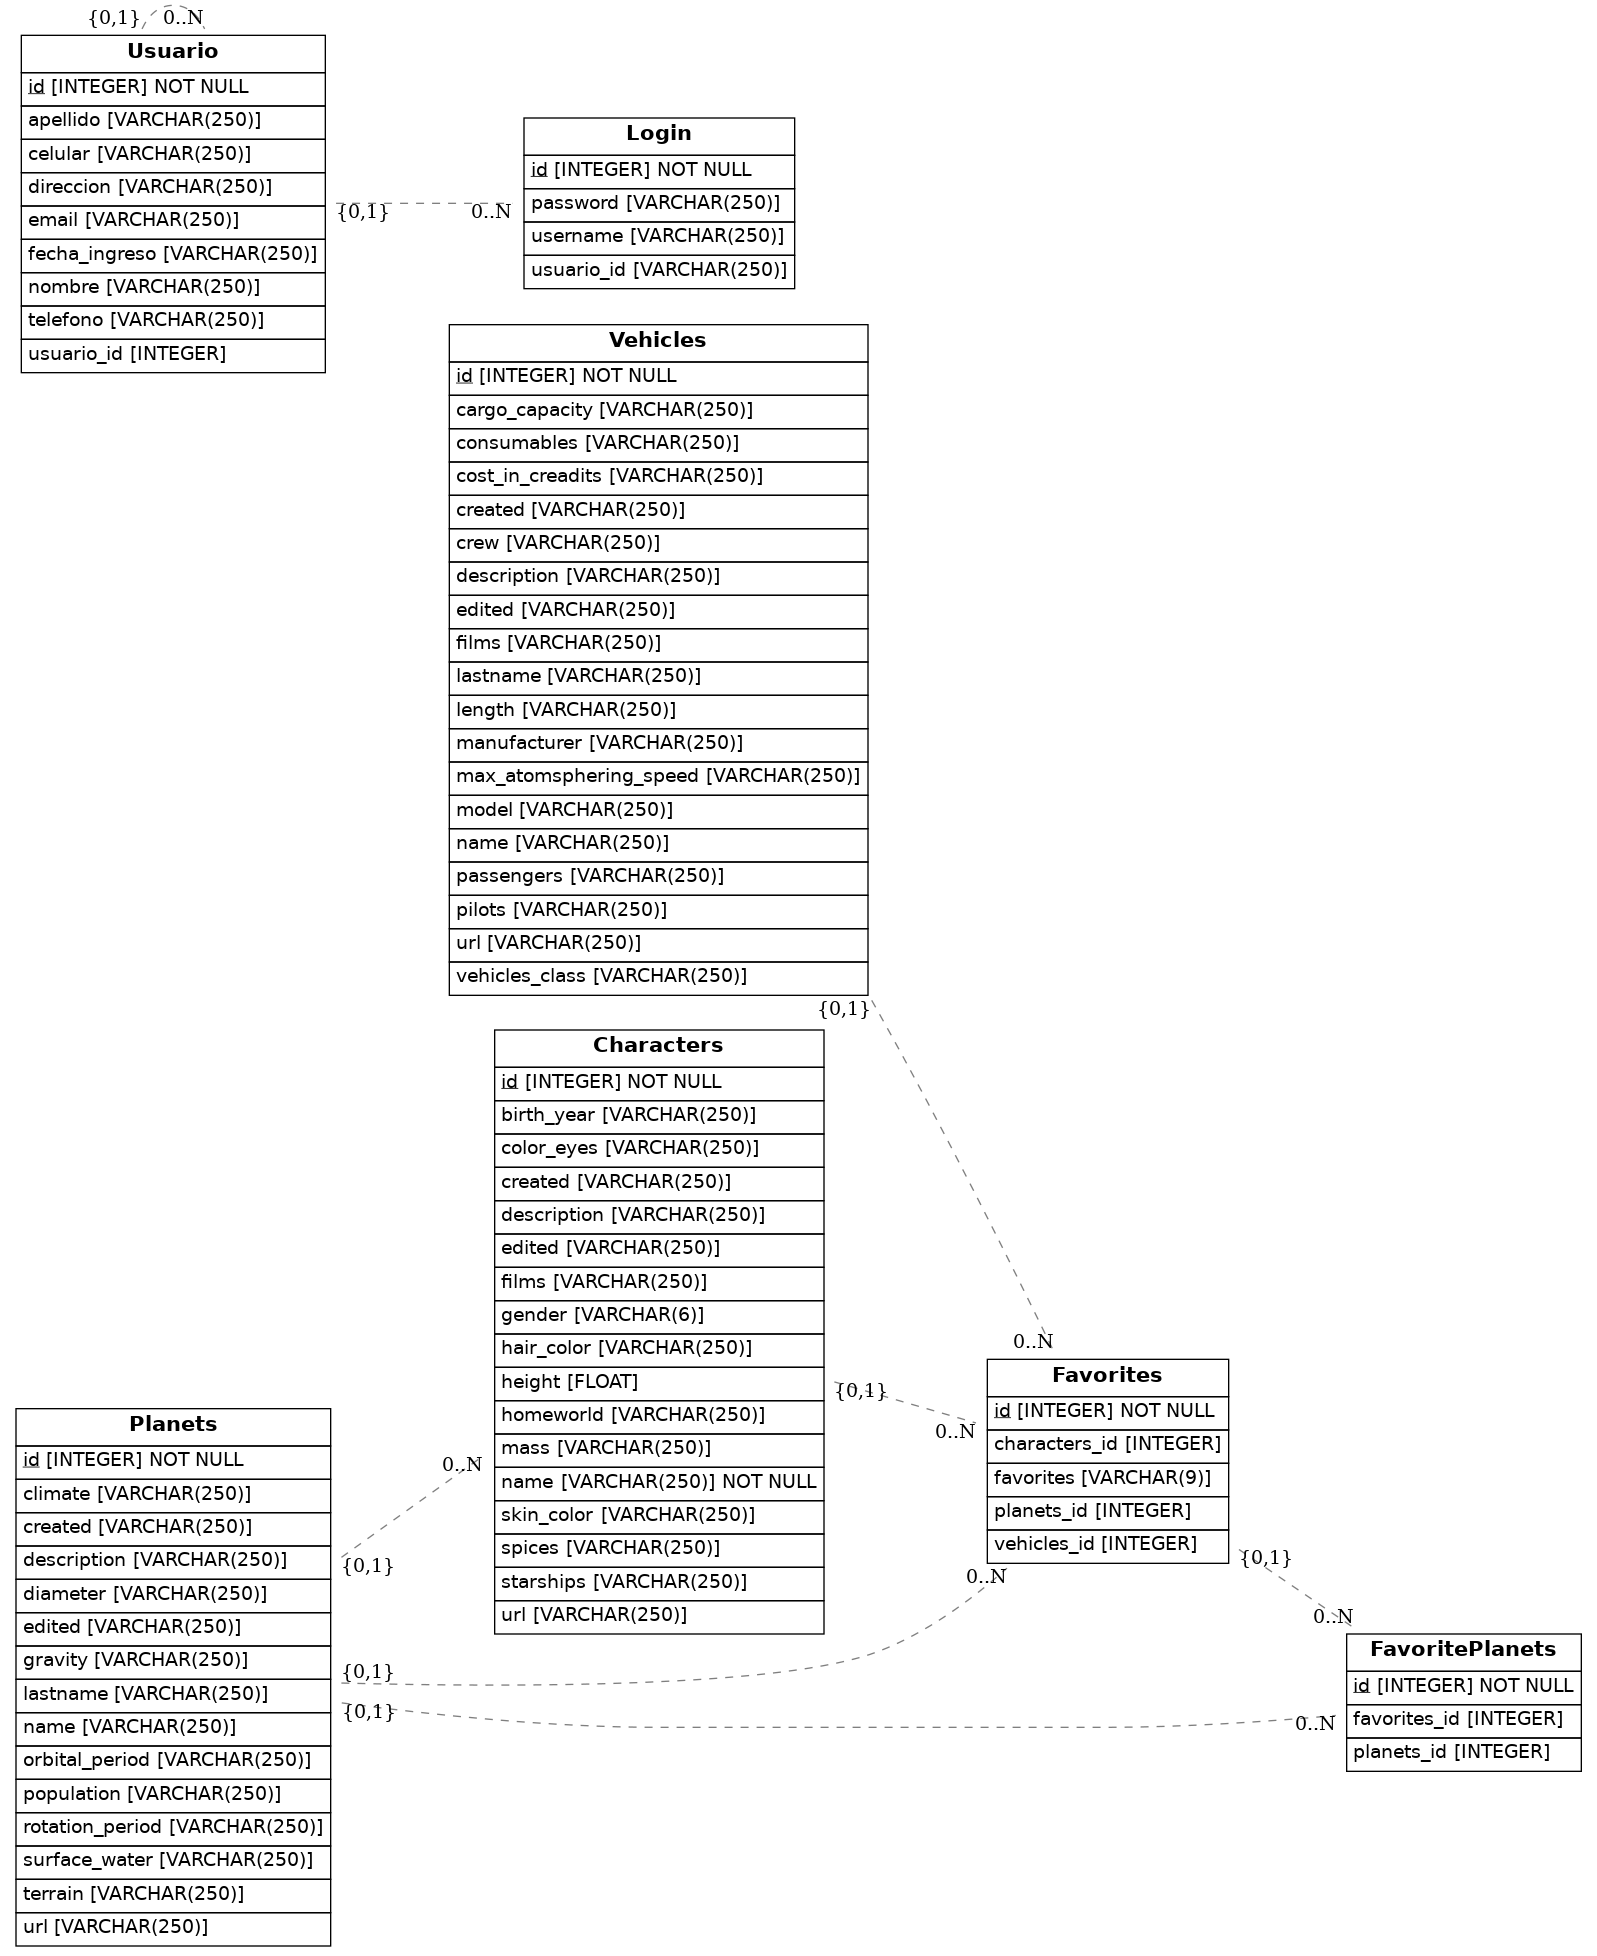
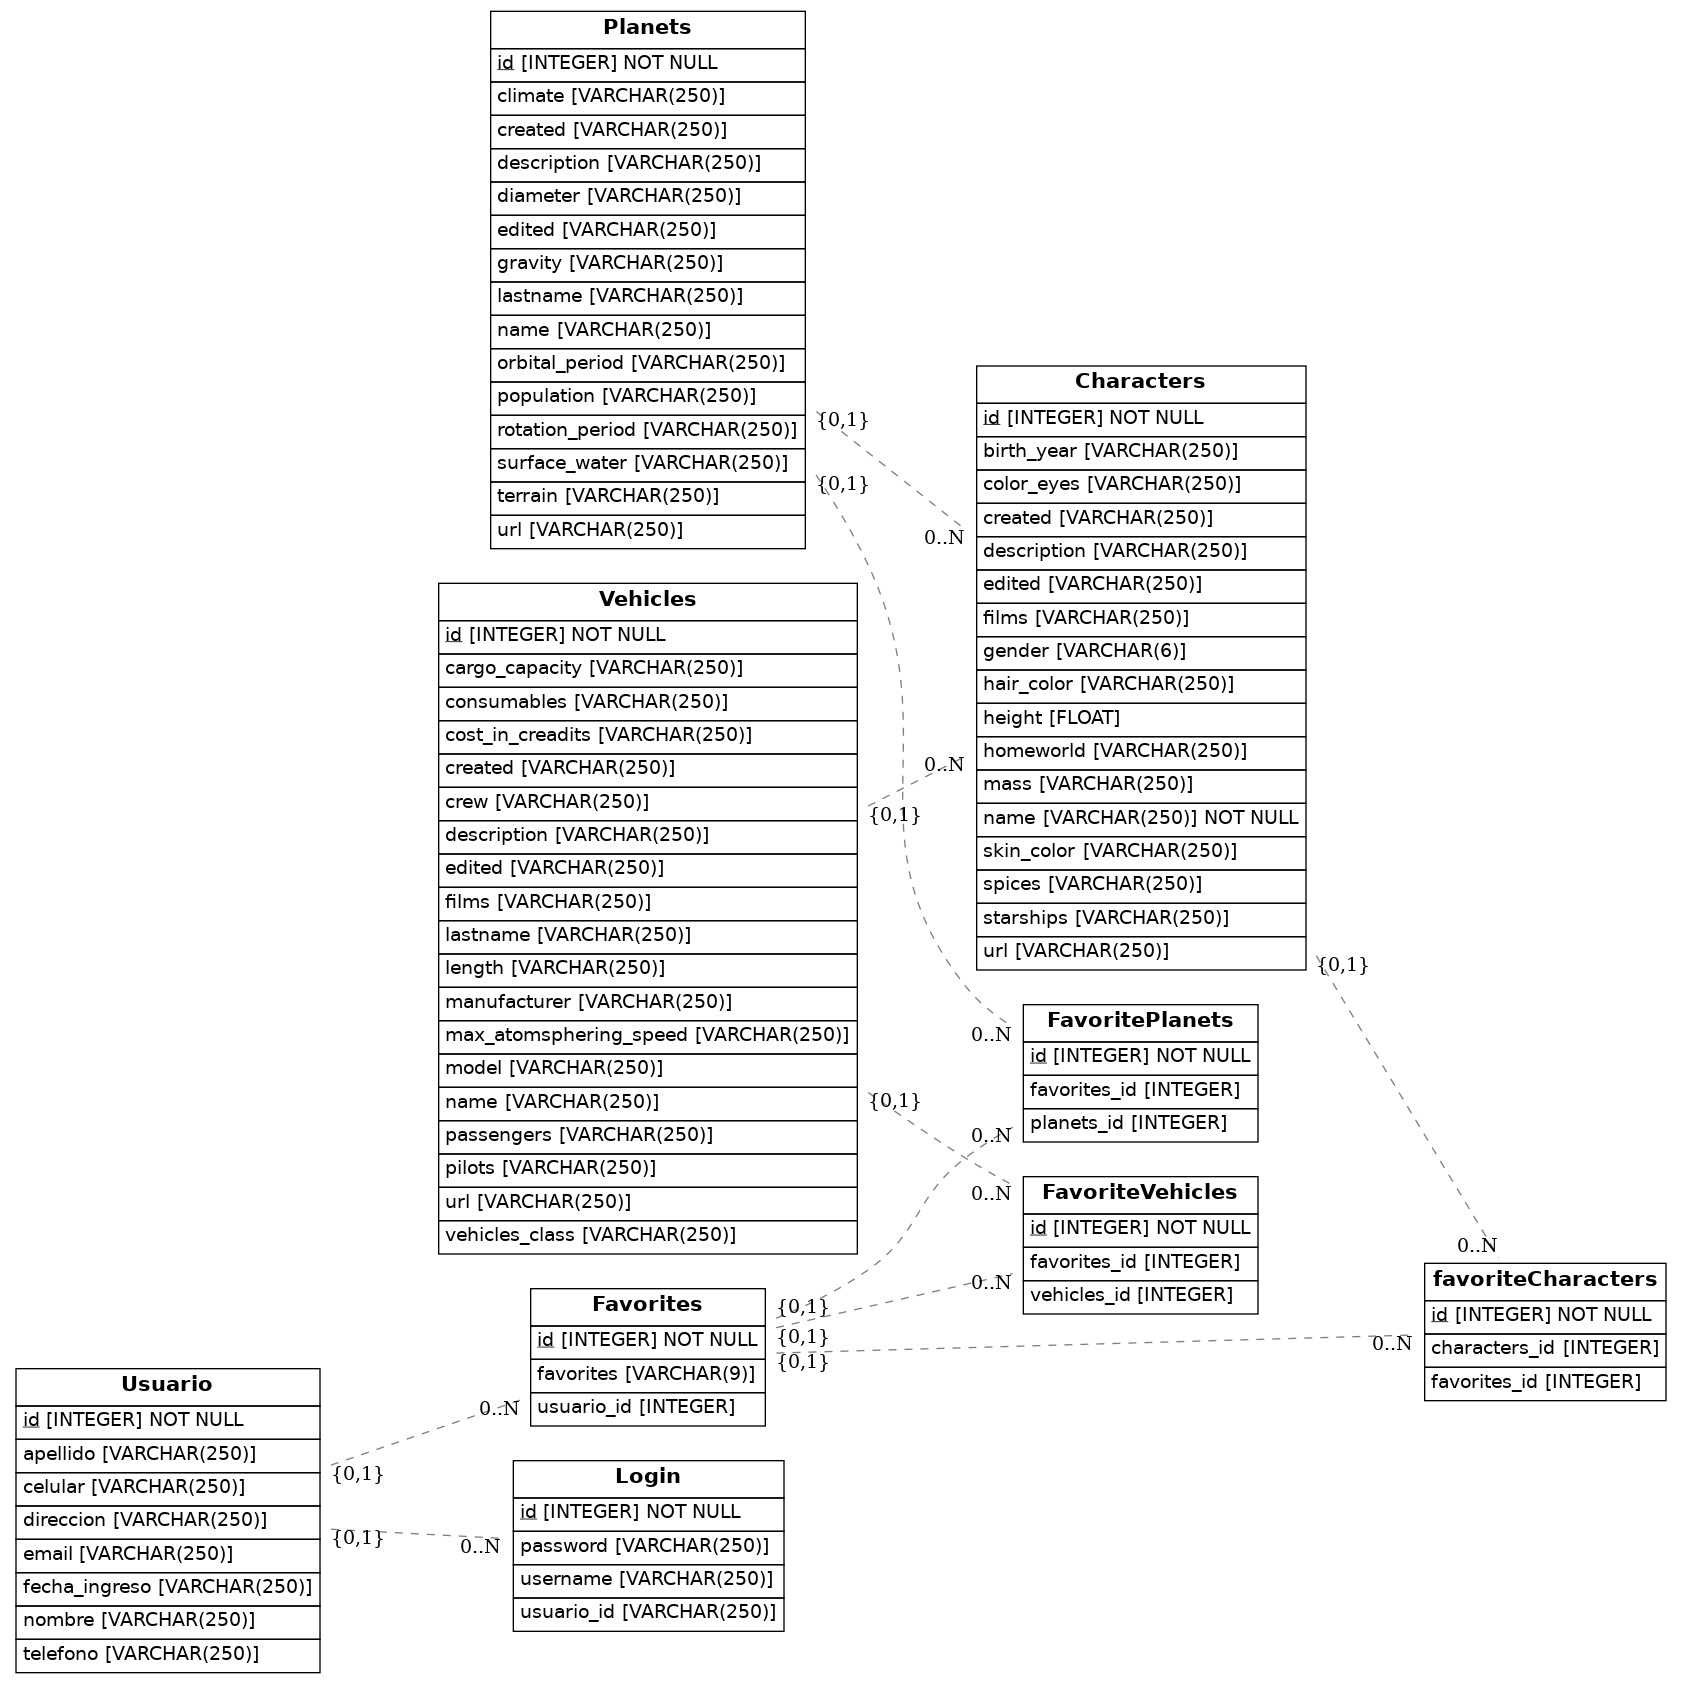
se modifican las clases intermedias

diff --git a/src/models.py b/src/models.py
@@ -67,7 +67,7 @@ class Characters(Base):
     created = Column(String(250))
     edited = Column(String(250))
     spices = Column(String(250))
-    starships = Column(String(250))
+    starships = Column(String(250), ForeignKey(Vehicles.id))
     url = Column(String(250))
     planets = relationship("Planets", back_populates="characters")
     vehicles = relationship("Vehicles", back_populates="characters")
@@ -75,15 +75,9 @@ class Characters(Base):
 class Favorites(Base):
     __tablename__ = 'Favorites'
     id = Column(Integer, primary_key=True)
-    vehicles_id = Column(Integer, ForeignKey(Vehicles.id))
-    planets_id = Column(Integer, ForeignKey(Planets.id))
-    characters_id = Column(Integer, ForeignKey(Characters.id))
     usuario_id = Column(Integer, ForeignKey('Usuario.id'))
     favorites = Column(Enum('personaje', 'vehiculo', 'planeta', name='favorite_type'))
     usuario = relationship("Usuario", back_populates="favorites")
-    characters = relationship("Characters", back_populates="favorites")
-    planets = relationship("Planets", back_populates="favorites")
-    vehicles = relationship("Vehicles", back_populates="favorites")
 
 class Usuario(Base):
     __tablename__ = 'Usuario'
@@ -105,7 +99,25 @@ class Login(Base):
     password = Column(String(250))
     usuario_id = Column(String(250), ForeignKey(Usuario.id))
     usuario = relationship("Usuario", back_populates="login")
-    
+
+class FavoriteCharacters(Base):
+    __tablename__ = 'favoriteCharacters'
+    id = Column(Integer, primary_key=True)
+    favorites_id = Column(Integer, ForeignKey('Favorites.id'))
+    characters_id = Column(Integer, ForeignKey('Characters.id'))
+    favorites = relationship("Favorites", back_populates="favorite_characters")
+    planet = relationship("Planets", back_populates="favorite_characters")
+    Favorites.favorite_characters = relationship("favoriteCharacters", back_populates="favorites")
+
+class FavoriteVehicles(Base):
+    __tablename__ = 'FavoriteVehicles'
+    id = Column(Integer, primary_key=True)
+    favorites_id = Column(Integer, ForeignKey('Favorites.id'))
+    vehicles_id = Column(Integer, ForeignKey('Vehicles.id'))
+    favorites = relationship("Favorites", back_populates="favorite_vehicles")
+    vehicles = relationship("Planets", back_populates="favorite_vehicles")
+    Favorites.favorite_vehicles = relationship("FavoriteVehicles", back_populates="favorites")
+
 class FavoritePlanets(Base):
     __tablename__ = 'FavoritePlanets'
     id = Column(Integer, primary_key=True)
